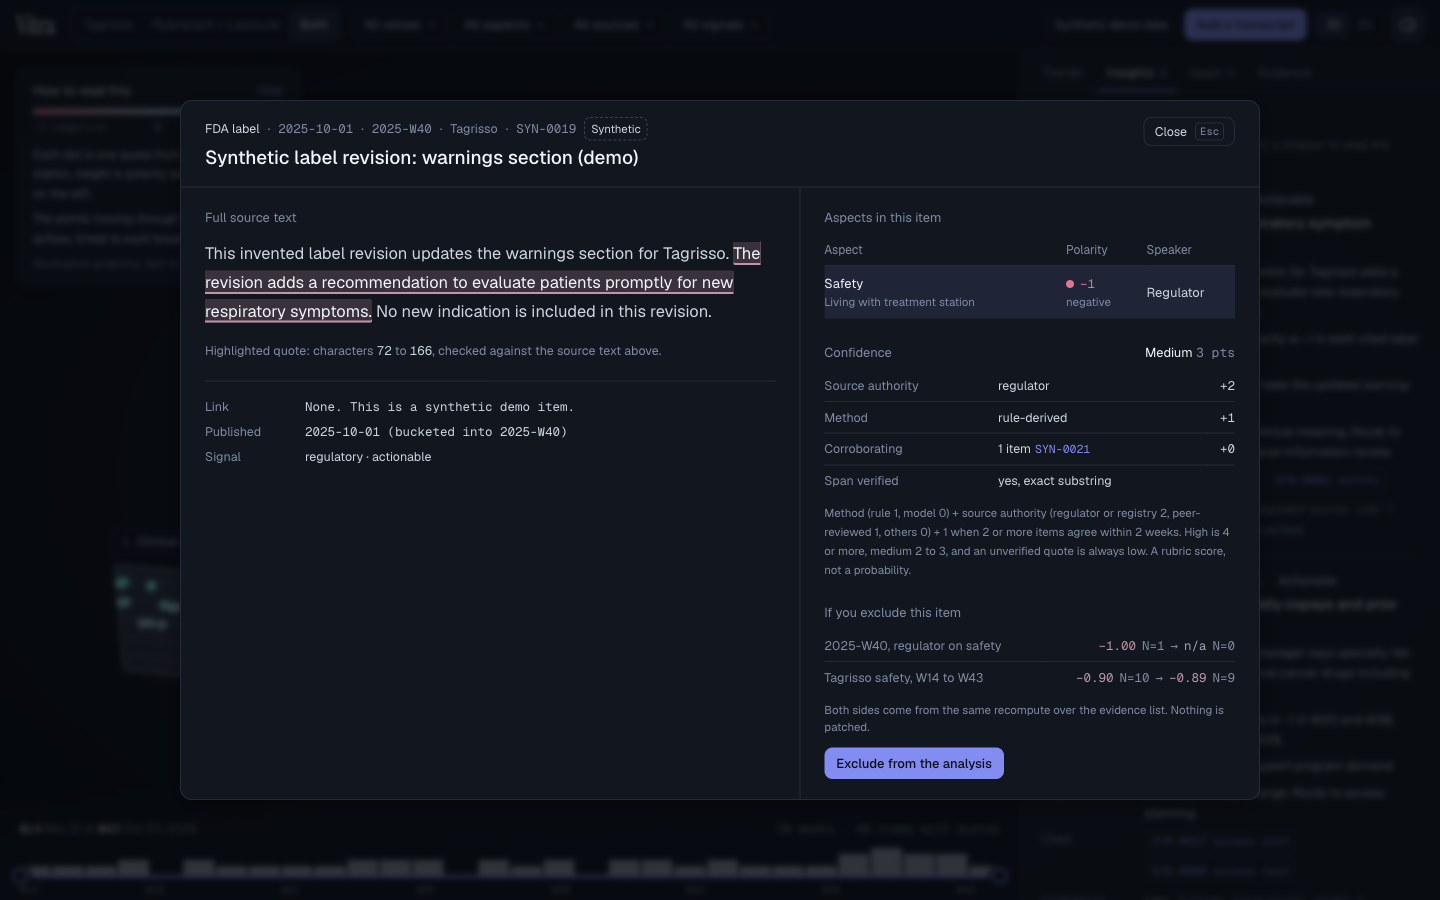
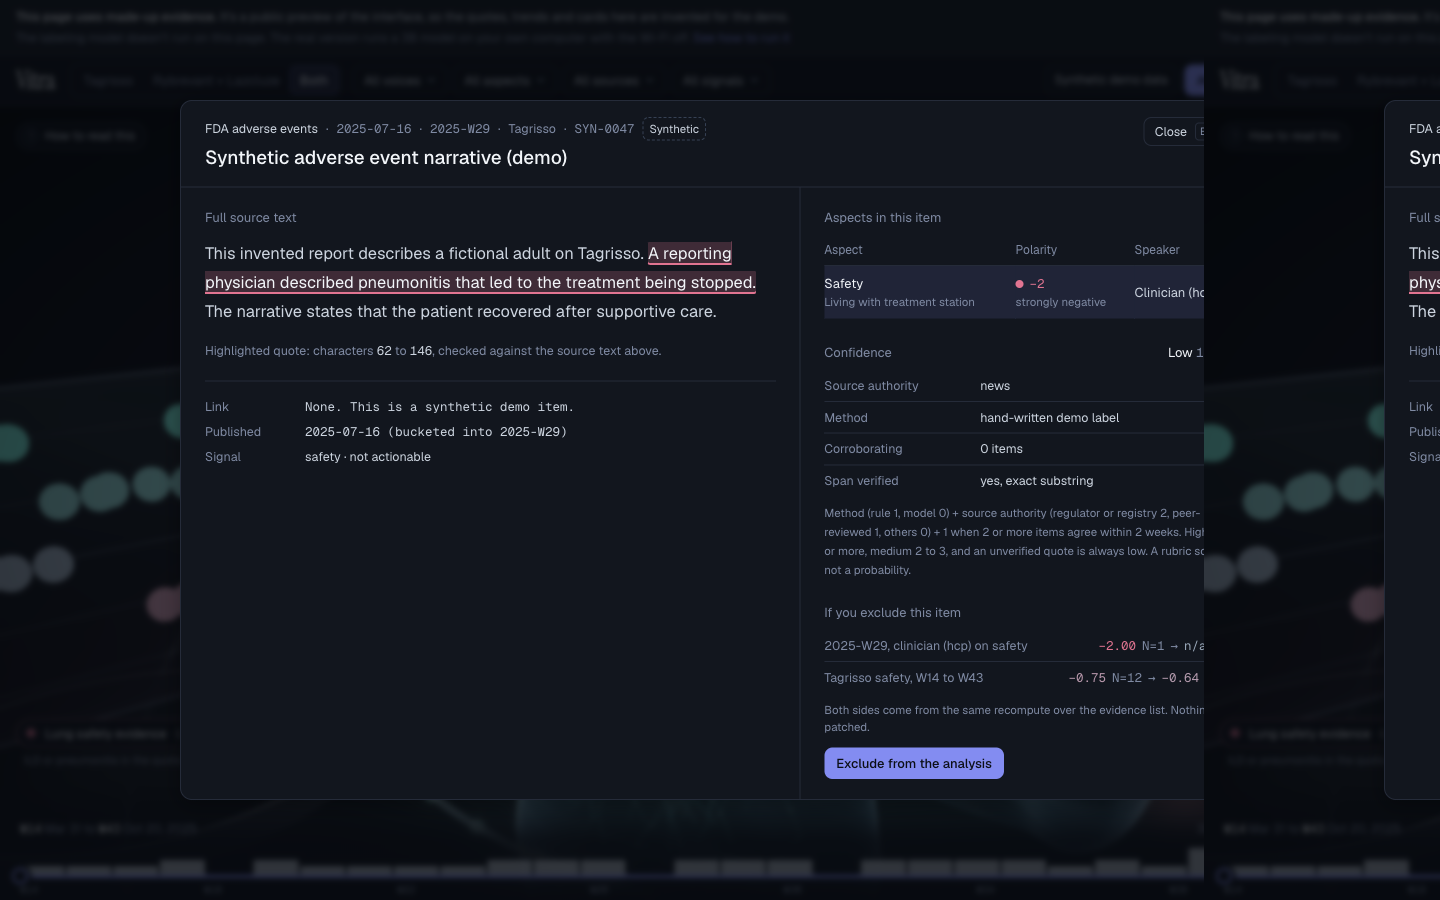
Refresh README screenshots for the lung hero, tumor dive, and X-Ray.

diff --git a/README.md b/README.md
@@ -25,10 +25,31 @@
 </p>
 
 <p align="center">
-  <img src="web/screenshots/xray-click.gif" alt="Lung observatory into Evidence X-Ray" width="780" />
+  <img src="web/screenshots/xray-click.gif" alt="Lung observatory, tumor dive, and Evidence X-Ray" width="780" />
 </p>
 <p align="center">
-  <sub>Synthetic data. Click a quote to open Evidence X-Ray. The lungs are illustrative; every quote is copied word for word from its source.</sub>
+  <sub>Synthetic data. From the lung observatory into the tumor hotspot, then Evidence X-Ray. The anatomy is illustrative; every quote is copied word for word from its source.</sub>
+</p>
+
+<p align="center">
+  <img src="web/screenshots/01-observatory-1440.png" alt="Lung observatory with orbiting evidence stations" width="780" />
+</p>
+<p align="center">
+  <sub>Hero view: illustrative lungs, five evidence stations in orbit, and lung-safety pins for ILD or pneumonitis quotes.</sub>
+</p>
+
+<p align="center">
+  <img src="web/screenshots/lungs-dive-tagrisso.png" alt="Inside the tumor hotspot, EGFR and MET on the cell surface" width="780" />
+</p>
+<p align="center">
+  <sub>Tumor dive: EGFR and MET on the cell surface, with label-only captions. Illustrative mechanism, not a clinical simulation.</sub>
+</p>
+
+<p align="center">
+  <img src="web/screenshots/02-xray-1440.png" alt="Evidence X-Ray open on a lung-safety quote" width="780" />
+</p>
+<p align="center">
+  <sub>Evidence X-Ray: the exact span highlighted in the source, with speaker, polarity, and confidence for that item.</sub>
 </p>
 
 ## What it does
